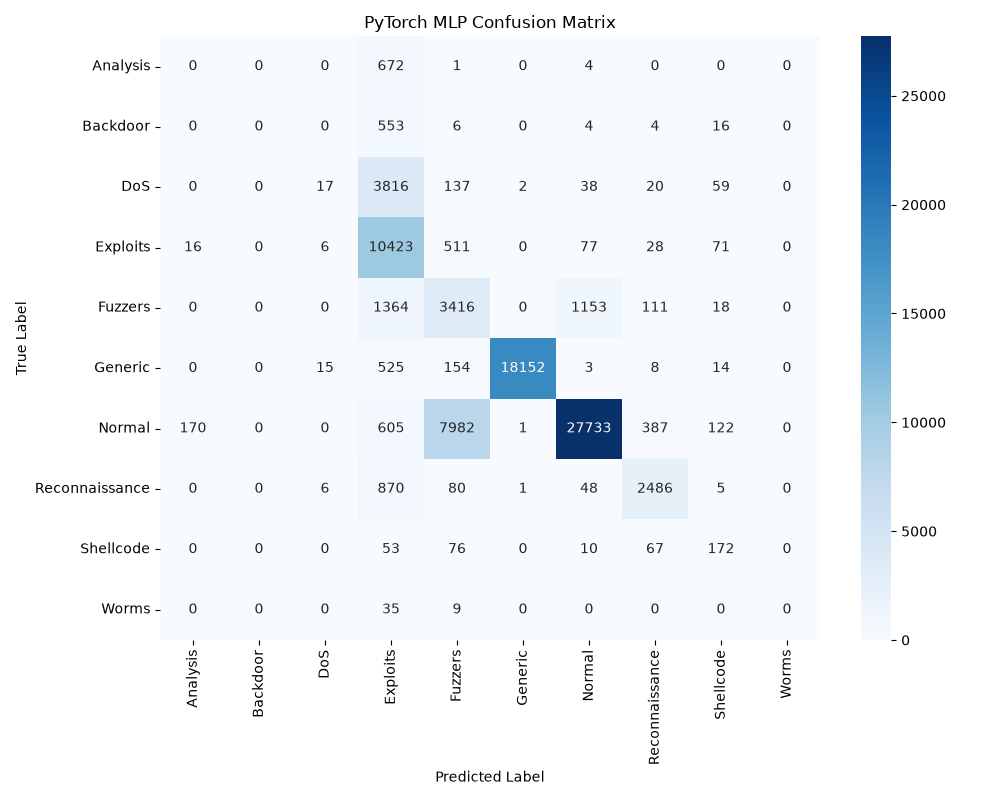
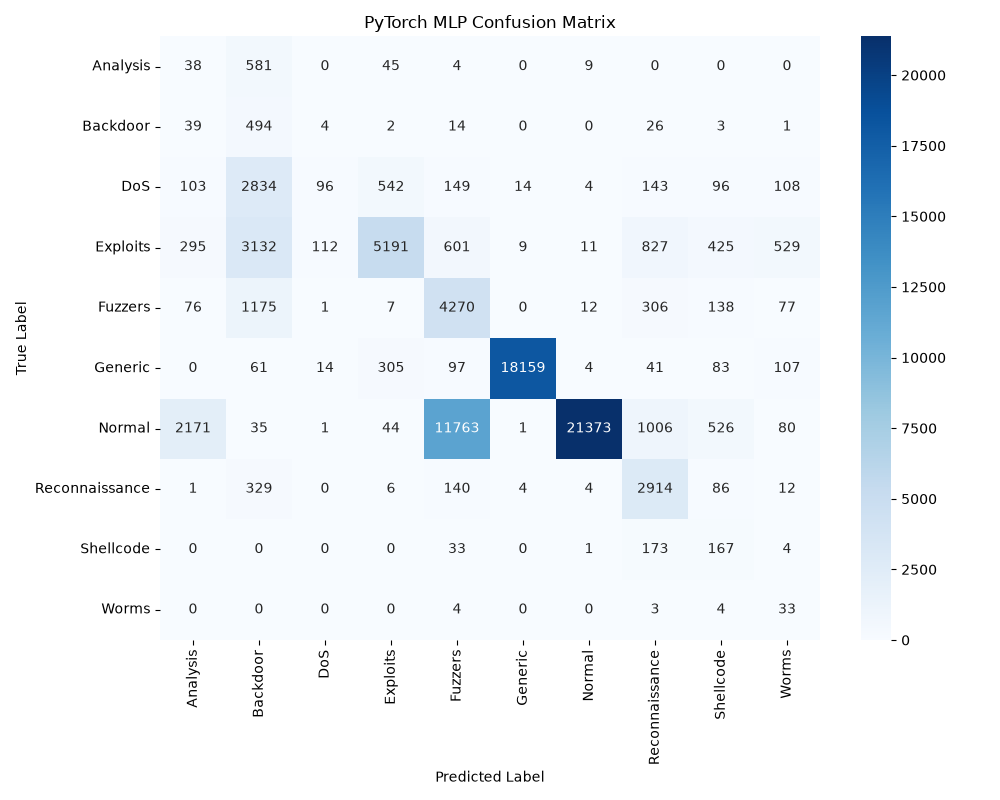
feat: implement advanced PyTorch training pipeline with class weighting and comprehensive model evaluation suite.

diff --git a/src/training/train.py b/src/training/train.py
@@ -40,30 +40,25 @@ def load_data():
 
 def compute_class_weights(y_train, num_classes, device):
     """
-    WHAT THIS DOES:
-    Calculates inverse-frequency weights for each class.
+    Smoothed Square-Root Class Weighting:
+    Formula: weight_i = sqrt( total_samples / (num_classes * count_of_class_i) )
     
-    WHY WE NEED IT:
-    Our dataset is extremely imbalanced:
-      - "Normal" traffic:  ~37,000 samples
-      - "Worms" attack:    ~44 samples (840x fewer!)
-    
-    Without class weights, the model learns to always predict "Normal" because
-    that minimizes overall loss. With class weights, we tell PyTorch:
-    "Getting a Worm wrong is 840x more costly than getting Normal wrong."
-    
-    FORMULA: weight_i = total_samples / (num_classes * count_of_class_i)
+    WHY?
+    Raw inverse weighting (135x for Worms) is too aggressive and ruins Normal precision.
+    Square-root smoothing scales the penalty down (135x -> 11.6x), balancing total
+    accuracy AND minority attack recall!
     """
     class_counts = Counter(y_train)
     total = len(y_train)
     weights = []
     for i in range(num_classes):
         count = class_counts.get(i, 1)
-        w = total / (num_classes * count)
-        weights.append(w)
+        raw_w = total / (num_classes * count)
+        smoothed_w = np.sqrt(raw_w) # Square root smoothing
+        weights.append(smoothed_w)
     
     weights_tensor = torch.tensor(weights, dtype=torch.float32).to(device)
-    print(f"[INFO] Class weights: {[f'{w:.2f}' for w in weights]}")
+    print(f"[INFO] Smoothed Class Weights: {[f'{w:.2f}' for w in weights]}")
     return weights_tensor
 
 def train_model():
@@ -114,7 +109,7 @@ def train_model():
     # If it hasn't improved for 'patience' epochs, it reduces lr by factor 0.5.
     # This lets the model make big jumps early and fine-tune later.
     scheduler = optim.lr_scheduler.ReduceLROnPlateau(
-        optimizer, mode='min', factor=0.5, patience=3, verbose=True
+        optimizer, mode='min', factor=0.5, patience=3
     )
 
     # 6. TRAINING LOOP WITH EARLY STOPPING

diff --git a/src/evaluation/evaluate.py b/src/evaluation/evaluate.py
@@ -74,15 +74,26 @@ def evaluate_pytorch_model():
         probs = torch.softmax(logits, dim=1)
         preds = torch.argmax(probs, dim=1).cpu().numpy()
 
-    # 5. Calculate Metrics
+    # 5. Calculate Multi-Class Metrics
     acc = accuracy_score(y_test, preds)
     p_macro, r_macro, f1_macro, _ = precision_recall_fscore_support(y_test, preds, average='macro', zero_division=0)
     p_weighted, r_weighted, f1_weighted, _ = precision_recall_fscore_support(y_test, preds, average='weighted', zero_division=0)
 
+    # Calculate Binary Metrics (Normal vs Cyber Threat)
+    # Find index of "Normal" class
+    normal_idx = class_names.index("Normal") if "Normal" in class_names else 6
+    y_test_binary = (y_test != normal_idx).astype(int)
+    preds_binary = (preds != normal_idx).astype(int)
+    
+    bin_acc = accuracy_score(y_test_binary, preds_binary)
+    bin_p, bin_r, bin_f1, _ = precision_recall_fscore_support(y_test_binary, preds_binary, average='binary', zero_division=0)
+
     print(f"\n--- PyTorch Neural Network Test Results ---")
-    print(f"Accuracy:          {acc:.4f} ({acc*100:.2f}%)")
-    print(f"Macro F1-Score:    {f1_macro:.4f}")
-    print(f"Weighted F1-Score: {f1_weighted:.4f}")
+    print(f"| Task                      | Accuracy | Precision | Recall | F1-Score |")
+    print(f"|---------------------------|----------|-----------|--------|----------|")
+    print(f"| Binary Threat Detection    | {bin_acc*100:.2f}%   | {bin_p*100:.2f}%    | {bin_r*100:.2f}% | {bin_f1*100:.2f}%   |")
+    print(f"| 10-Class Threat Categorization | {acc*100:.2f}%   | {p_weighted*100:.2f}%    | {r_weighted*100:.2f}% | {f1_weighted*100:.2f}%   |")
+    print(f"\nMacro F1-Score:    {f1_macro:.4f}")
     print(f"Macro Recall:      {r_macro:.4f}")
     
     print("\nDetailed Per-Class Classification Report:")
